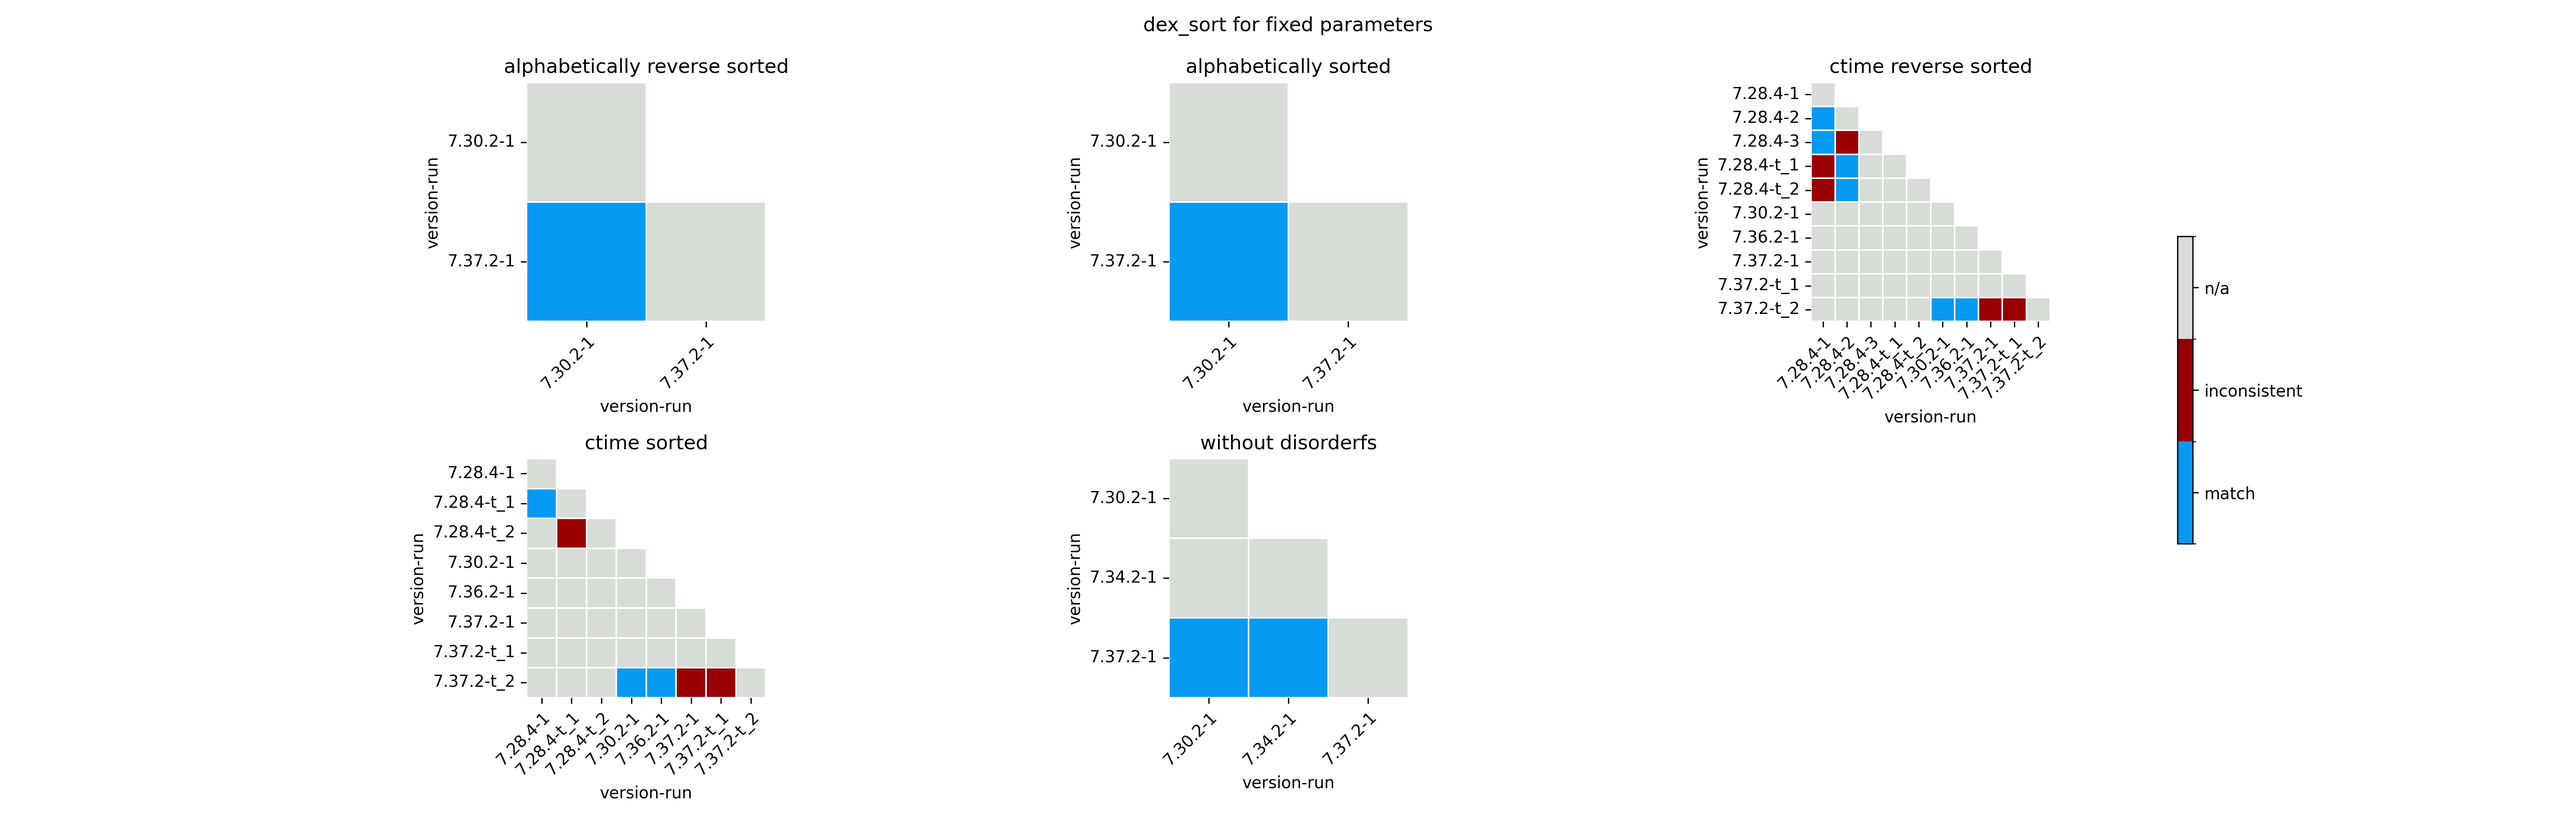
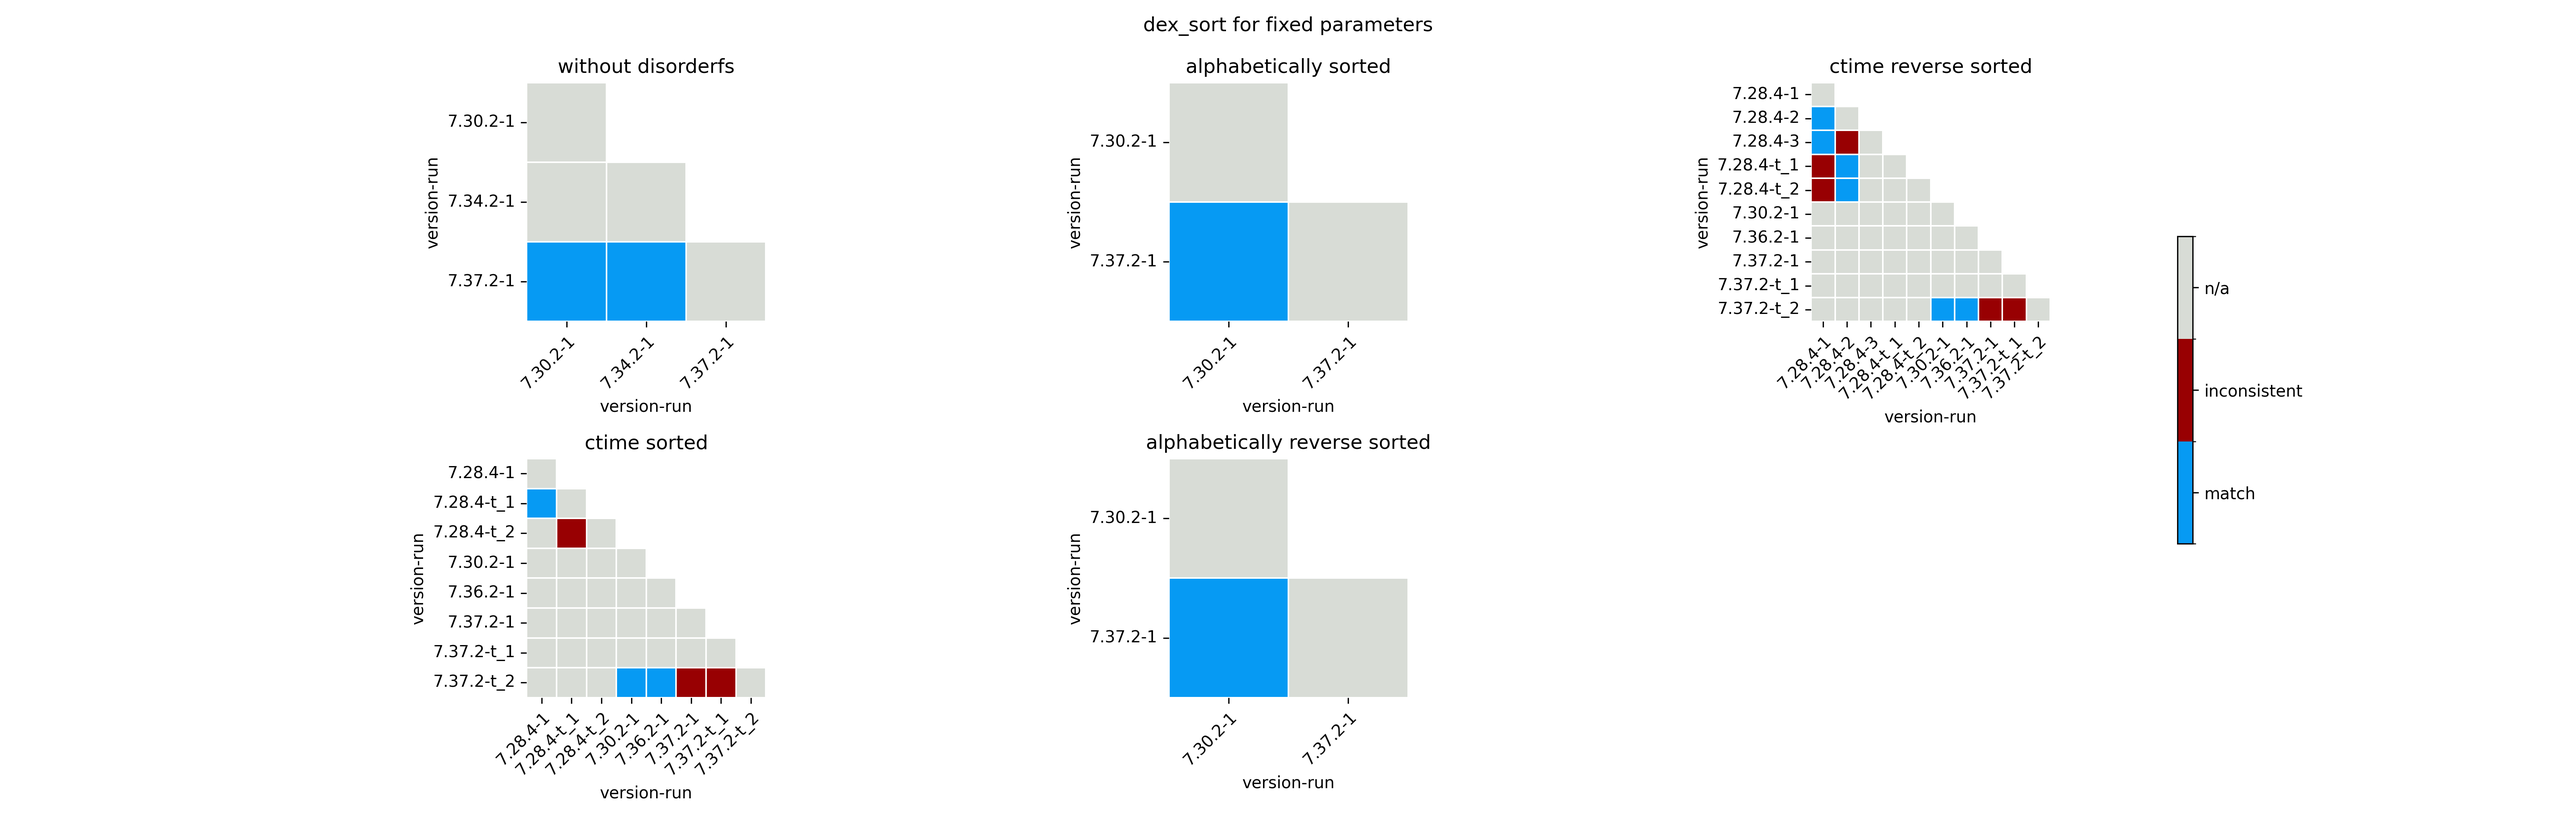
reran plots, now also adding diagonal to values as a sanity check and added missing " to tests

diff --git a/analysis/analyse.py b/analysis/analyse.py
@@ -186,7 +186,7 @@ def _compare_amongst_runs(
         assert classified_runs[key].consistent, f"{key} consistency bit was not set to consistent, before we doing pairwise tests!"
     mid = int(len(to_compare) / 2)
     for tarfile in to_compare[0:mid]:
-        for other in [file for file in to_compare if file != tarfile]:
+        for other in [file for file in to_compare]:
             # Second parameter, diff, could be printed for runs of interest here
             (has_diff, _) = compare(tarfile, other)
             if has_diff:

diff --git a/xy_analysis.py b/xy_analysis.py
@@ -19,6 +19,6 @@ from analysis.plotinator import visualize
 # aggregate_all_runs(dexsort=False, diffuse=False, apkdiff=True, nav=False, output_meta=False)
 
 # pretty_print_raw("/home/chrissy/Code/reproducible-tests/data/summary/dex_sort/fixed_versions/7.30.2.json")
-# visualize()
+visualize()
 # test()
-run_all_checks([], with_metadata_list=True)
+# run_all_checks([], with_metadata_list=True)
